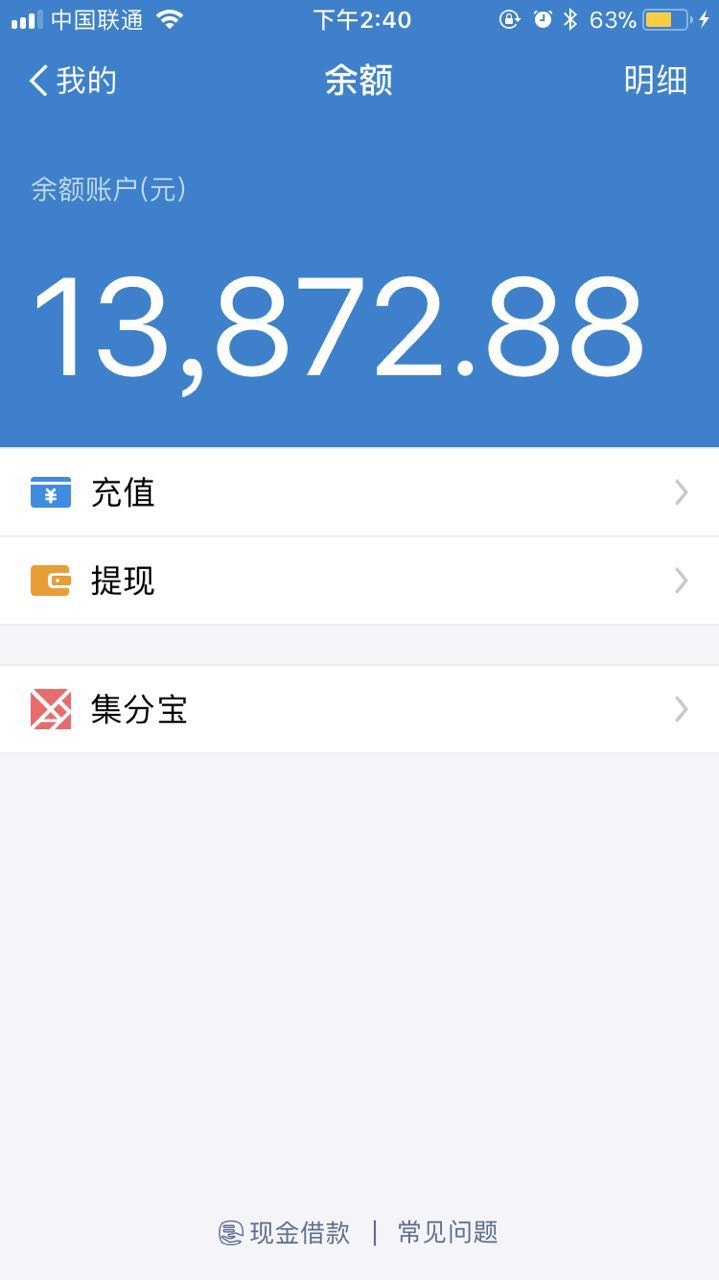
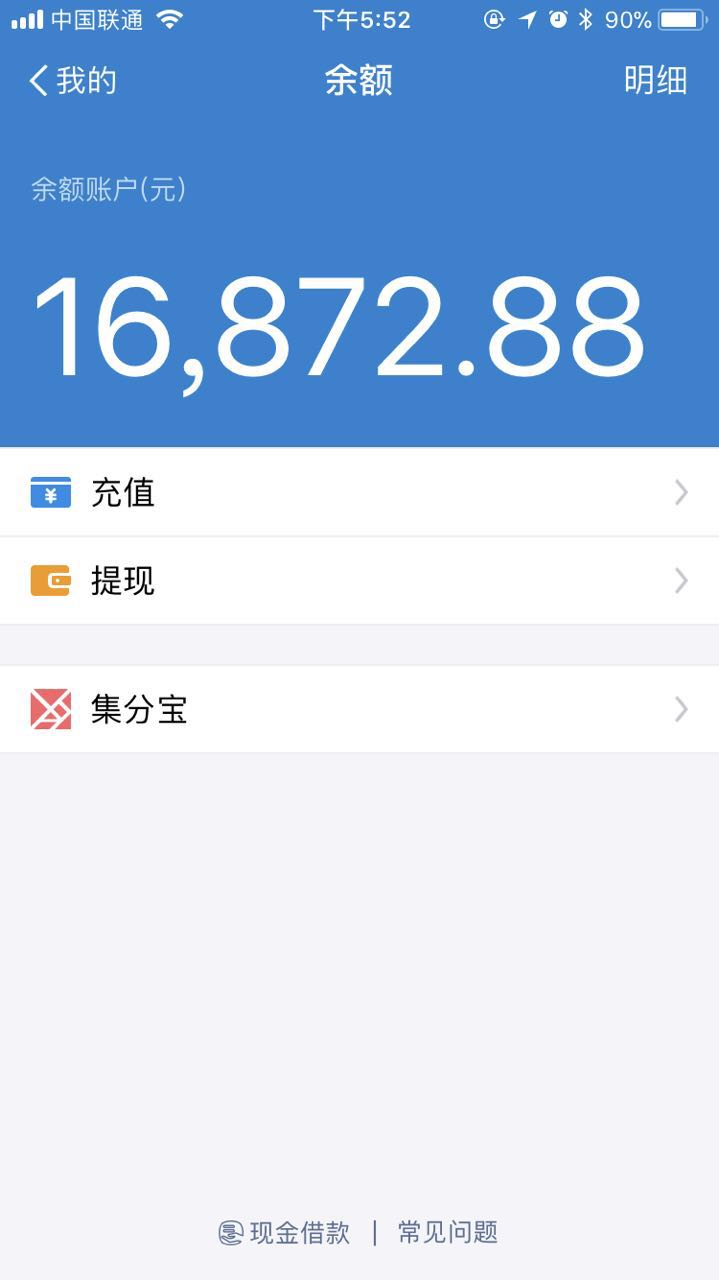
income: 100offer 3000元 20170809 企业赞助 已入账

diff --git a/README.md b/README.md
@@ -1,6 +1,6 @@
 #  NodeParty 开源基金会运作草案 
 
-![](https://img.shields.io/badge/余额-13872.88%20元-green.svg) ![](https://img.shields.io/badge/赞助笔数-17%20笔-green.svg) ![](https://img.shields.io/badge/待入账-5430.00%20元-blue.svg) 
+![](https://img.shields.io/badge/余额-16872.88%20元-green.svg) ![](https://img.shields.io/badge/赞助笔数-17%20笔-green.svg) ![](https://img.shields.io/badge/待入账-5430.00%20元-blue.svg) 
 
 ## 组织介绍
 
@@ -169,9 +169,9 @@ Commit Message 需按照此格式：
 <!-- money start -->
 | 款项 | 金额 |
 |------|------|
-| **总额** | 13872.88 元 |
-| **本月收入** | 13872.88 元 |
-| **待入账** | 5430.00 元 |
+| **总额** | 16872.88 元 |
+| **本月收入** | 16872.88 元 |
+| **待入账** | 2430.00 元 |
 | **本月支出** | 0 元 |
 <!-- money end -->
 
